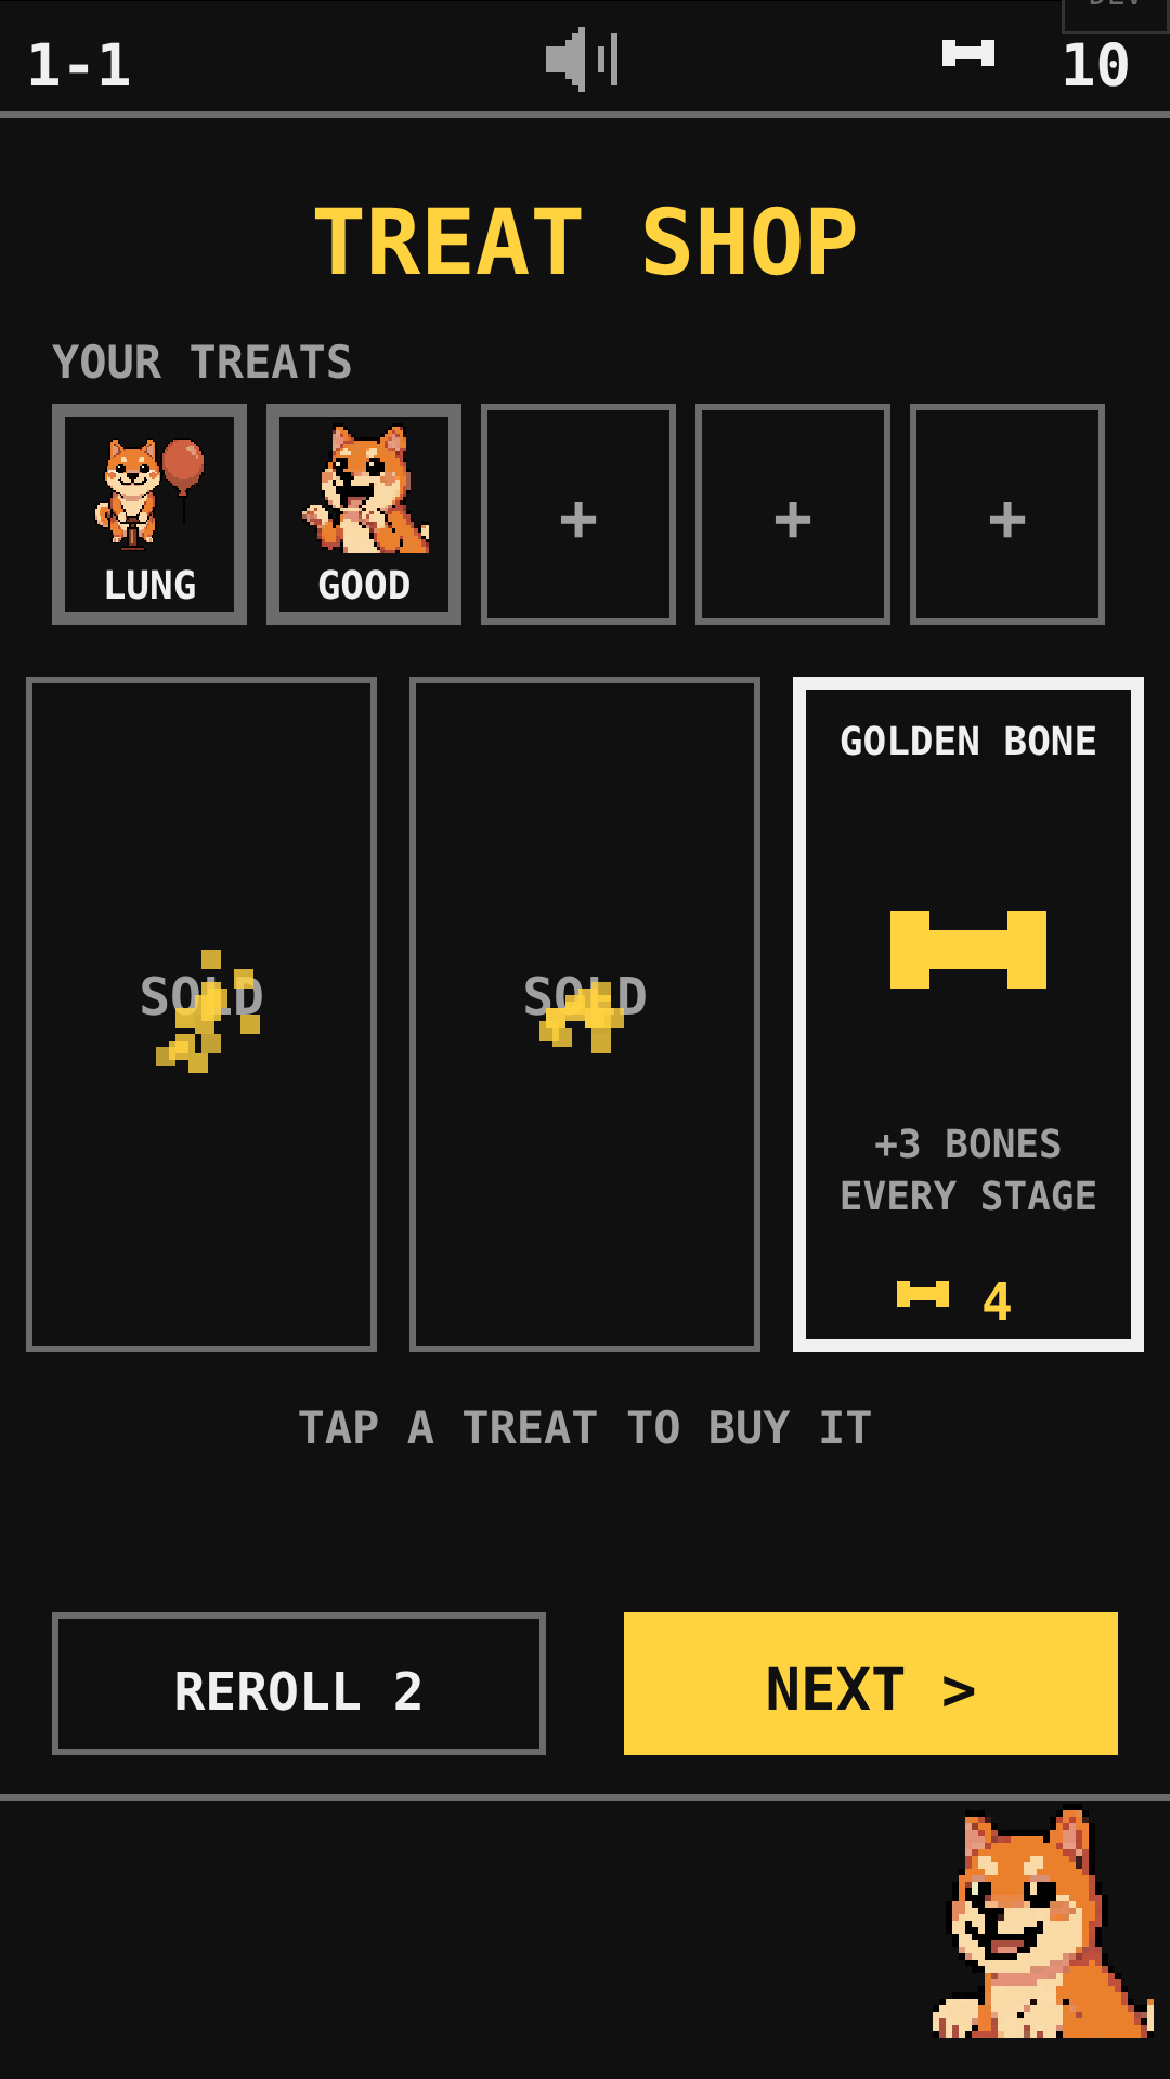
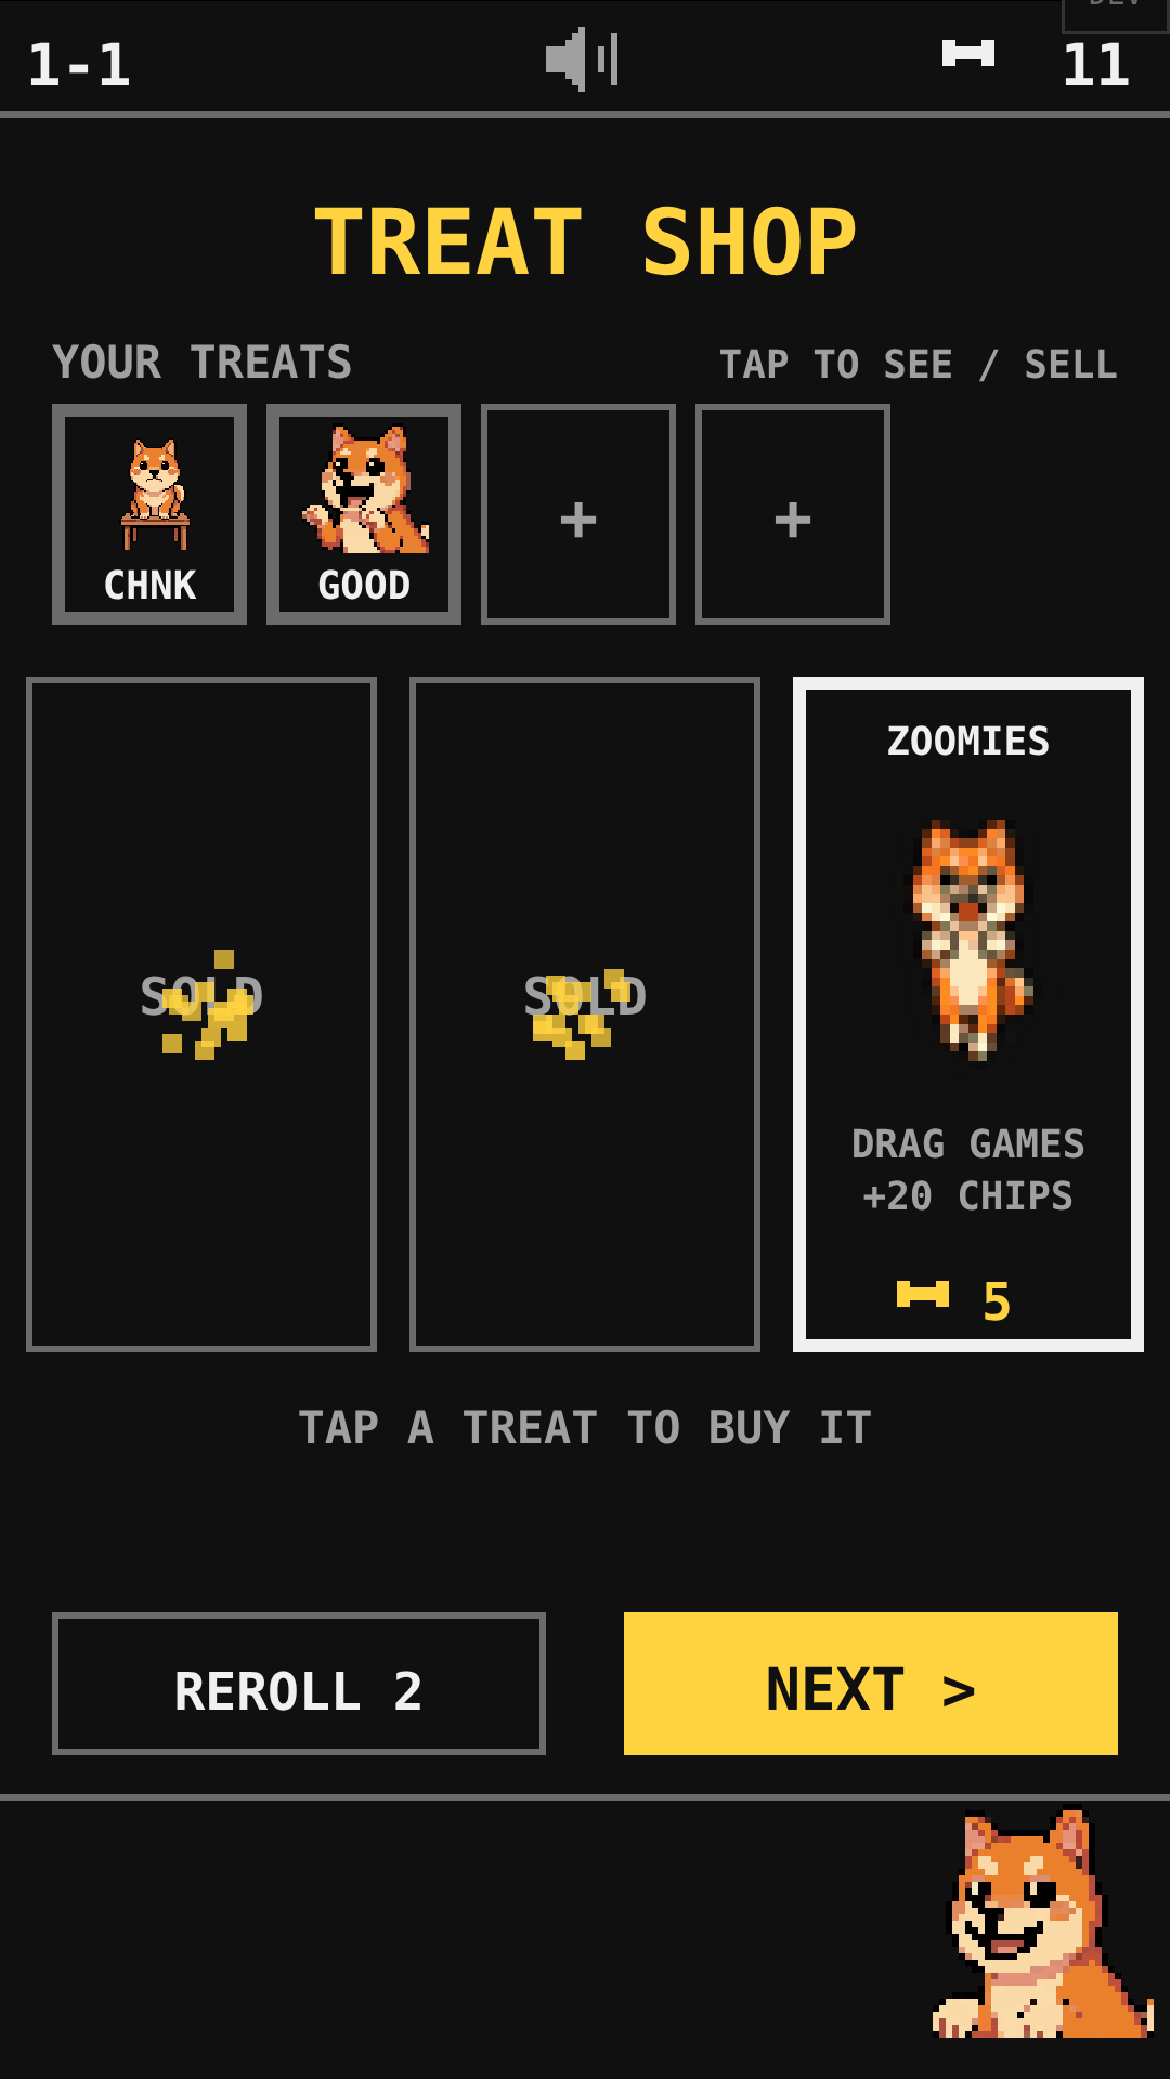
Candid photo on every win; read and sell owned treats; TAP THE DOG
- Every won game now snaps a candid off the camera (photo games keep their
  stamped shot) and shows it as a small polaroid on the result / tally
  screen. The last four of a run are laid out on the game-over screen.
- Tapping an owned treat, in the shop or on the stage intro, opens its card
  with what it does. In the shop the card has SELL (half price), so a full
  row can make room. Buying with full slots or too few bones says why.
- The stage intro pauses while a treat card is open.
- TAP's how-to line says TAP THE DOG, matching its sprite.

Claude-Session: https://claude.ai/code/session_01V56fU5fQnERkuHZmUpoetX

diff --git a/index.html b/index.html
@@ -135,7 +135,7 @@ const ART = {
         winOnTimeout  true = survive-the-clock game (default false)
         photo         true = a win shows the camera still in Engine.lastPhoto
         photoCap      caption printed under that photo (default 'NICE MOVES!')
-        how           how to play, shown under the prompt ("TAP THE BUG"; '\n'
+        how           how to play, shown under the prompt ("TAP THE DOG"; '\n'
                       for a second line). For a sensor game, one line per way of
                       playing it, best first — { tilt, cam, mic, motion, touch }
                       — and the first the player actually has is shown.
@@ -869,7 +869,7 @@ class Microgame {
 // 1. TAP — hit the moving bug
 class TapBug extends Microgame {
   static meta = { id: 'tap', prompt: 'TAP!', hint: 'tap', duration: 3.2,
-    how: 'TAP THE BUG' };
+    how: 'TAP THE DOG' };
   init() {
     this.miss = 0;
     this.bug = { x: 24 + Math.random() * (W - 48), y: TOP + 26 + Math.random() * (BOT - TOP - 52), r: 9 };
@@ -3226,6 +3226,8 @@ const Run = {
 
   world: 1, stage: 0, bones: 0, treats: [], score: 0, left: 0, played: 0, streak: 0,
   freeFail: false, last: null, payout: [], shop: [], reroll: 2,
+  info: null,          // the owned treat whose card is open, or null
+  msg: '', msgT: 0,    // a short shop message ("SLOTS FULL…")
   // furthest stage ever reached, counted 0 = 1-1, 1 = 1-2, ...
   best: (() => { try { return +localStorage.getItem('micromania.bestRun') || 0; } catch (e) { return 0; } })(),
 
@@ -3342,9 +3344,36 @@ const Run = {
     return this.bones >= t.price && this.treats.length < slots;
   },
 
+  // ── YOUR TREATS: tap one to read it; in the shop, to sell it ─────────────
+  ownedY() { return Engine.state === 'SHOP' ? TOP + 44 : CY + 66; },
+  ownedHit(p) {
+    const y = this.ownedY();
+    for (let i = 0; i < this.treats.length; i++) if (Engine.hit({ x: 8 + i * 33, y, w: 30, h: 34 }, p)) return i;
+    return -1;
+  },
+  PANEL: { x: 18, y: CY - 78, w: 144, h: 152 },
+  SELL: { x: CX - 50, y: CY + 38, w: 100, h: 22 },
+  sellPrice(t) { return Math.max(1, Math.floor(t.price / 2)); },
+  say(m) { this.msg = m; this.msgT = 2; Sfx.fail(); FX.shake(2); },
+
+  // with a treat's card open, SELL sells it (shop only) and any other tap closes it
+  infoTap(p) {
+    if (Engine.state === 'SHOP' && Engine.hit(this.SELL, p)) {
+      const t = this.treat(this.info);
+      this.bones += this.sellPrice(t);
+      this.treats = this.treats.filter(id => id !== t.id);
+      Sfx.tap(); FX.burst(CX, this.SELL.y + 11, PAL.accent, 10, 60);
+    }
+    this.info = null;
+  },
+
   shopUpdate(input) {
+    if (this.msgT > 0) this.msgT -= STEP;
     if (Engine.timer > 0) return;
     for (const tp of input.taps) {
+      if (this.info) { this.infoTap(tp); continue; }
+      const o = this.ownedHit(tp);
+      if (o >= 0) { this.info = this.treats[o]; Sfx.tap(); continue; }
       for (let i = 0; i < 3; i++) if (Engine.hit(this.CARD(i), tp)) this.buy(i);
       if (Engine.hit(this.REROLL, tp)) {
         if (this.bones >= this.reroll && this.shop.length) { this.bones -= this.reroll; this.reroll++; this.stock(); Sfx.tap(); }
@@ -3357,7 +3386,8 @@ const Run = {
   buy(i) {
     const id = this.shop[i]; if (!id) return;
     const t = this.treat(id), c = this.CARD(i);
-    if (!this.canBuy(t)) { Sfx.fail(); FX.shake(2); return; }
+    if (this.bones < t.price) { this.say('NOT ENOUGH BONES'); return; }
+    if (!this.canBuy(t)) { this.say('SLOTS FULL - TAP ONE TO SELL'); return; }
     this.bones -= t.price; this.treats.push(id); this.shop[i] = null;
     Sfx.win(); buzz(20); FX.burst(c.x + c.w / 2, c.y + c.h / 2, PAL.accent, 14, 70);
   },
@@ -3408,12 +3438,36 @@ const Run = {
     g.text('TARGET', CX, CY - 4, 9, PAL.mid);
     g.text(String(this.target()), CX, CY + 24, 26, PAL.accent);
     g.text(this.games() + ' GAMES TO SCORE IT', CX, CY + 46, 8, PAL.ink);
-    if (this.treats.length) this.drawOwned(CY + 62);
+    if (this.treats.length) {
+      g.text('YOUR TREATS  ·  TAP TO SEE', CX, CY + 61, 6, PAL.mid);
+      this.drawOwned(CY + 66);
+    }
+    this.drawInfo();
+  },
+
+  // an owned treat's card, opened over whatever screen it was tapped on
+  drawInfo() {
+    if (!this.info) return;
+    const t = this.treat(this.info), P = this.PANEL;
+    ctx.globalAlpha = 0.75; g.rect(0, TOP, W, BOT - TOP, PAL.bg); ctx.globalAlpha = 1;
+    g.rect(P.x, P.y, P.w, P.h, PAL.accent);
+    g.rect(P.x + 2, P.y + 2, P.w - 4, P.h - 4, PAL.bg);
+    g.text(t.name, CX, P.y + 18, 10, PAL.accent);
+    if (t.art) g.sprite(t.art[0], CX, P.y + 56, { w: 52, h: 52, frame: t.art[1] });
+    else this.bone(CX - 12, P.y + 48, PAL.accent, 4);
+    t.lines.forEach((l, i) => g.text(l, CX, P.y + 96 + i * 11, 8, PAL.ink));
+    if (Engine.state === 'SHOP') {
+      const S = this.SELL;
+      g.rect(S.x, S.y, S.w, S.h, PAL.bad);
+      g.text('SELL  +' + this.sellPrice(t), CX, S.y + 15, 9, PAL.ink);
+    }
+    g.text('TAP ELSEWHERE TO CLOSE', CX, P.y + P.h - 5, 6, PAL.mid);
   },
 
   drawTally() {
     const L = this.last;
     g.text(L.won ? 'GOOD!' : 'FAIL!', CX, TOP + 36, 22, L.won ? PAL.accent : PAL.bad);
+    if (L.won && Engine.snap) Engine.drawPolaroid(Engine.snap, W - 24, TOP + 28, 34, 0.08);
     g.text(Engine.game.meta.prompt, CX, TOP + 50, 7, PAL.mid);
     L.rows.forEach(([a, v, c], i) => {
       g.text(a, 14, TOP + 70 + i * 12, 8, PAL.mid, 'left');
@@ -3456,6 +3510,7 @@ const Run = {
   drawShop() {
     g.text('TREAT SHOP', CX, TOP + 24, 14, PAL.accent);
     g.text('YOUR TREATS', 8, TOP + 40, 7, PAL.mid, 'left');
+    if (this.treats.length) g.text('TAP TO SEE / SELL', W - 8, TOP + 40, 6, PAL.mid, 'right');
     this.drawOwned(TOP + 44);
     for (let i = 0; i < 3; i++) {
       const c = this.CARD(i), id = this.shop[i];
@@ -3465,13 +3520,16 @@ const Run = {
       this.bone(c.x + c.w / 2 - 10, c.y + c.h - 11, ok ? PAL.accent : PAL.mid);
       g.text(String(t.price), c.x + c.w / 2 + 2, c.y + c.h - 5, 8, ok ? PAL.accent : PAL.mid, 'left');
     }
-    g.text('TAP A TREAT TO BUY IT', CX, this.CARD(0).y + 118, 7, PAL.mid);
+    if (this.msgT > 0) g.text(this.msg, CX, this.CARD(0).y + 118, 7, PAL.bad);
+    else g.text('TAP A TREAT TO BUY IT', CX, this.CARD(0).y + 118, 7, PAL.mid);
     const R = this.REROLL, N = this.NEXT;
     g.box(R.x, R.y, R.w, R.h, PAL.mid); g.text('REROLL ' + this.reroll, R.x + R.w / 2, R.y + 15, 8, PAL.ink);
     g.rect(N.x, N.y, N.w, N.h, PAL.accent); g.text('NEXT >', N.x + N.w / 2, N.y + 15, 9, PAL.bg);
+    this.drawInfo();
   },
 
   drawOver() {
+    Engine.drawAlbum(TOP + 44);
     g.text('RUN', CX, CY - 30, 24, PAL.bad);
     g.text('OVER', CX, CY - 4, 24, PAL.bad);
     g.text('REACHED ' + this.label(), CX, CY + 26, 10, PAL.ink);
@@ -3498,6 +3556,9 @@ const Engine = {
   // the first run), true = allowed, false = the player picked touch only
   sensors: null,
   mode: 'classic',   // 'classic' = endless lives run, 'run' = the roguelike (see Run)
+  // a still of the player taken the moment they win any game, shown on the
+  // result screen; the last few of a run make the game-over strip
+  snap: null, album: [],
   BOSS_EVERY: 8, SPEEDUP_EVERY: 4,
 
   reset() {
@@ -3596,7 +3657,14 @@ const Engine = {
     // RUN mode's between-stage screens; each can be tapped past
     if (s === 'STAGE') {
       Mascot.set('watch');
-      if (this.timer <= 0 || (Input.justDown && this.timer < 1.4)) Run.nextGame();
+      // a treat's card holds the intro until it is closed
+      if (Run.info) { this.timer += dt; for (const tp of Input.taps) Run.infoTap(tp); return; }
+      for (const tp of Input.taps) {
+        const o = Run.ownedHit(tp);
+        if (o >= 0) { Run.info = Run.treats[o]; Sfx.tap(); return; }
+        if (this.timer < 1.4) this.timer = 0;   // any other tap skips the intro
+      }
+      if (this.timer <= 0) Run.nextGame();
       return;
     }
     if (s === 'CLEAR') {
@@ -3629,11 +3697,16 @@ const Engine = {
       if (this.game.finished) {
         if (this.game.won) {
           this.score++; this.combo++; this.result = 'WIN'; Sfx.win(); buzz(20); Mascot.set('cheer');
+          // photo games already took theirs (with their stamp); every other
+          // game gets a candid one — the concentration face is the joke
+          this.snap = Engine.lastPhoto || Input.snapPhoto();
+          if (this.snap) { this.album.push(this.snap); if (this.album.length > 4) this.album.shift(); }
           FX.flash(PAL.accent, 0.45);
           FX.burst(Mascot.x, Mascot.y - 8, PAL.accent, 12 + Math.min(12, this.combo * 2), 80);
           if (this.combo >= 3) FX.shake(3);   // a little extra on a streak
         } else {
           if (!this.testClass && this.mode === 'classic') this.lives--;
+          this.snap = null;
           this.combo = 0; this.result = 'FAIL'; Sfx.fail(); buzz(120); Mascot.set('sad');
           FX.flash(PAL.bad, 0.55); FX.shake(5);
         }
@@ -3723,6 +3796,7 @@ const Engine = {
   startRun() {
     if (this.sensors) { Input.enableAV(); Input.enableMotion(); Input.enableTilt(); }
     this.reset();
+    this.album = []; this.snap = null;
     if (this.mode === 'run') Run.start();
     this.state = 'READY';
     this.timer = 3.2;          // 3 · 2 · 1 · GO, then the first prompt
@@ -3825,6 +3899,7 @@ const Engine = {
     if (s === 'SHOP')  { this.drawHud(); Run.drawShop(); return; }
 
     if (s === 'GAMEOVER') {
+      this.drawAlbum(TOP + 44);
       g.text('GAME', CX, CY - 24, 24, PAL.bad);
       g.text('OVER', CX, CY + 2, 24, PAL.bad);
       g.text('SCORE ' + this.score, CX, CY + 36, 10, PAL.ink);
@@ -3879,6 +3954,8 @@ const Engine = {
       g.clear(win ? PAL.bg : PAL.bad);
       g.text(win ? 'GOOD!' : 'FAIL!', CX, CY - 6, 24, win ? PAL.accent : PAL.ink);
       if (win && this.combo > 1) g.text('x' + this.combo + ' STREAK', CX, CY + 18, 9, PAL.mid);
+      // photo games get the big polaroid next; the rest show their candid here
+      if (win && this.snap && !this.game.meta.photo) this.drawPolaroid(this.snap, CX, CY + 62, 64, -0.06);
       this.drawHud();
       return;
     }
@@ -3916,6 +3993,21 @@ const Engine = {
       if (Math.floor(this.time * 2) % 2) g.text('TAP', CX, BOT - 6, 8, PAL.mid);
       this.drawHud();
     }
+  },
+
+  // a small tilted polaroid of a camera still, centred on x, y
+  drawPolaroid(img, x, y, w, tilt = 0) {
+    const h = w * 0.75, b = Math.max(2, Math.round(w / 18));
+    ctx.save(); ctx.translate(x, y); ctx.rotate(tilt);
+    g.rect(-w / 2 - b, -h / 2 - b, w + b * 2, h + b * 4, PAL.ink);
+    ctx.drawImage(img, -w / 2, -h / 2, w, h);
+    ctx.restore();
+  },
+
+  // the run's last few candids, laid out like photos on a table
+  drawAlbum(y) {
+    const n = this.album.length; if (!n) return;
+    this.album.forEach((img, i) => this.drawPolaroid(img, CX + (i - (n - 1) / 2) * 42, y, 36, i % 2 ? 0.07 : -0.07));
   },
 
   drawHud() {

diff --git a/README.md b/README.md
@@ -38,6 +38,10 @@ show it as a polaroid before the next round — in the camera's own colours, and
 cover-cropped so a portrait selfie frame is never squeezed into the 4:3 print.
 Opt a game in with `photo: true` in its meta.
 
+Every other game takes a **candid** on a win too — whatever face you were
+pulling when you won — shown as a small polaroid on the result screen. The last
+four of a run are laid out on the game-over screen.
+
 A game can stamp the still before handing it over. Filters live in `PhotoFX`,
 draw in the photo's own pixel space, and use the five palette colours so they
 read as pixel art on a photograph rather than a grade over someone's face:
@@ -97,7 +101,10 @@ lives run). RUN is Balatro-style scoring over the same microgames:
   and interest of 1 per 5 saved (max 5).
 - Between stages the **treat shop** sells perks (5 slots) that bend the sum:
   ZOOMIES, CAMERA STAR, BIG LUNGS, HOT STREAK, GOOD BOY, SPEEDY, GOLDEN BONE,
-  CHONK. Tap to buy; REROLL costs 2 and goes up each time.
+  CHONK. Tap to buy; REROLL costs 2 and goes up each time. Tap one of
+  **your** treats (in the shop or on the stage intro) to read what it does;
+  in the shop its card has a SELL button for half its price, which is how a
+  full row makes room.
 - Inside a stage it is the same game-after-game rush; all the choosing happens
   between stages. Everything lives in the `Run` object in `index.html`.
 
